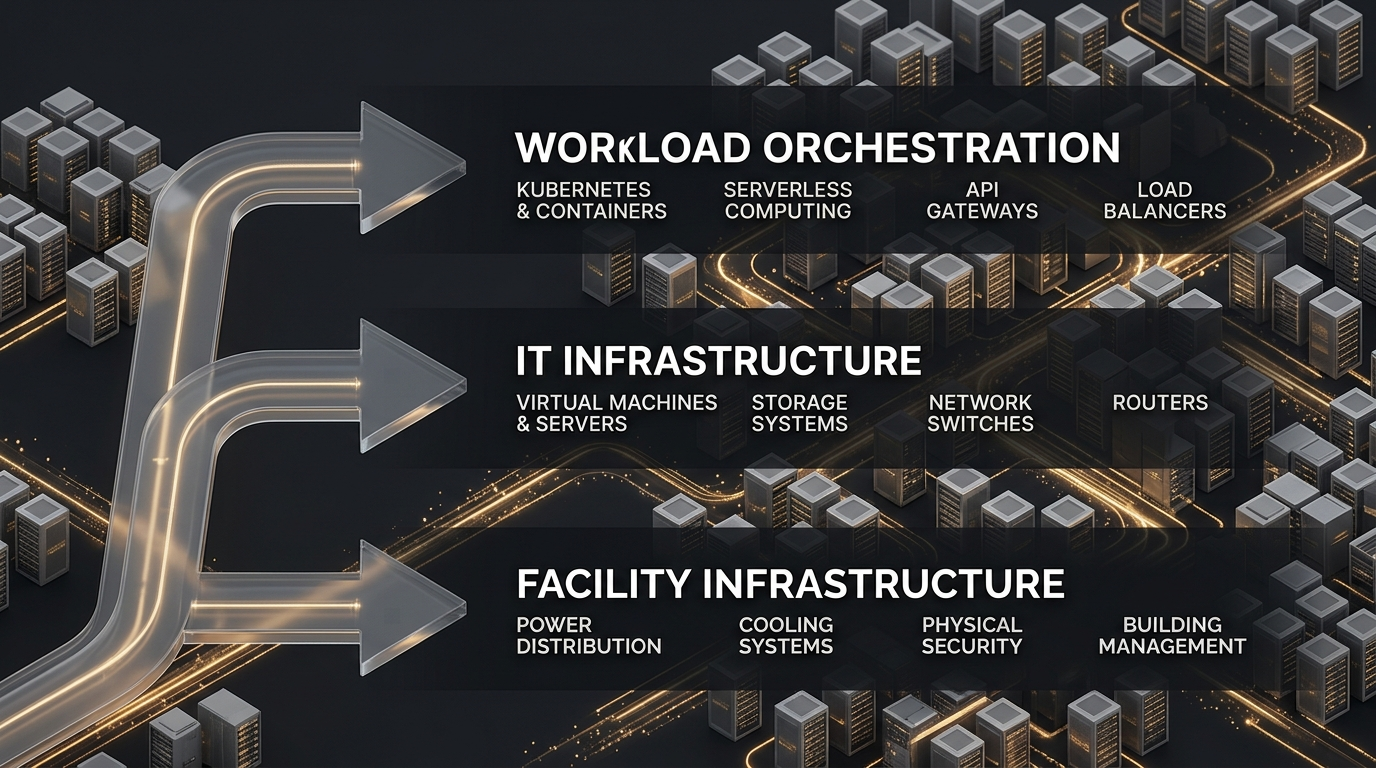
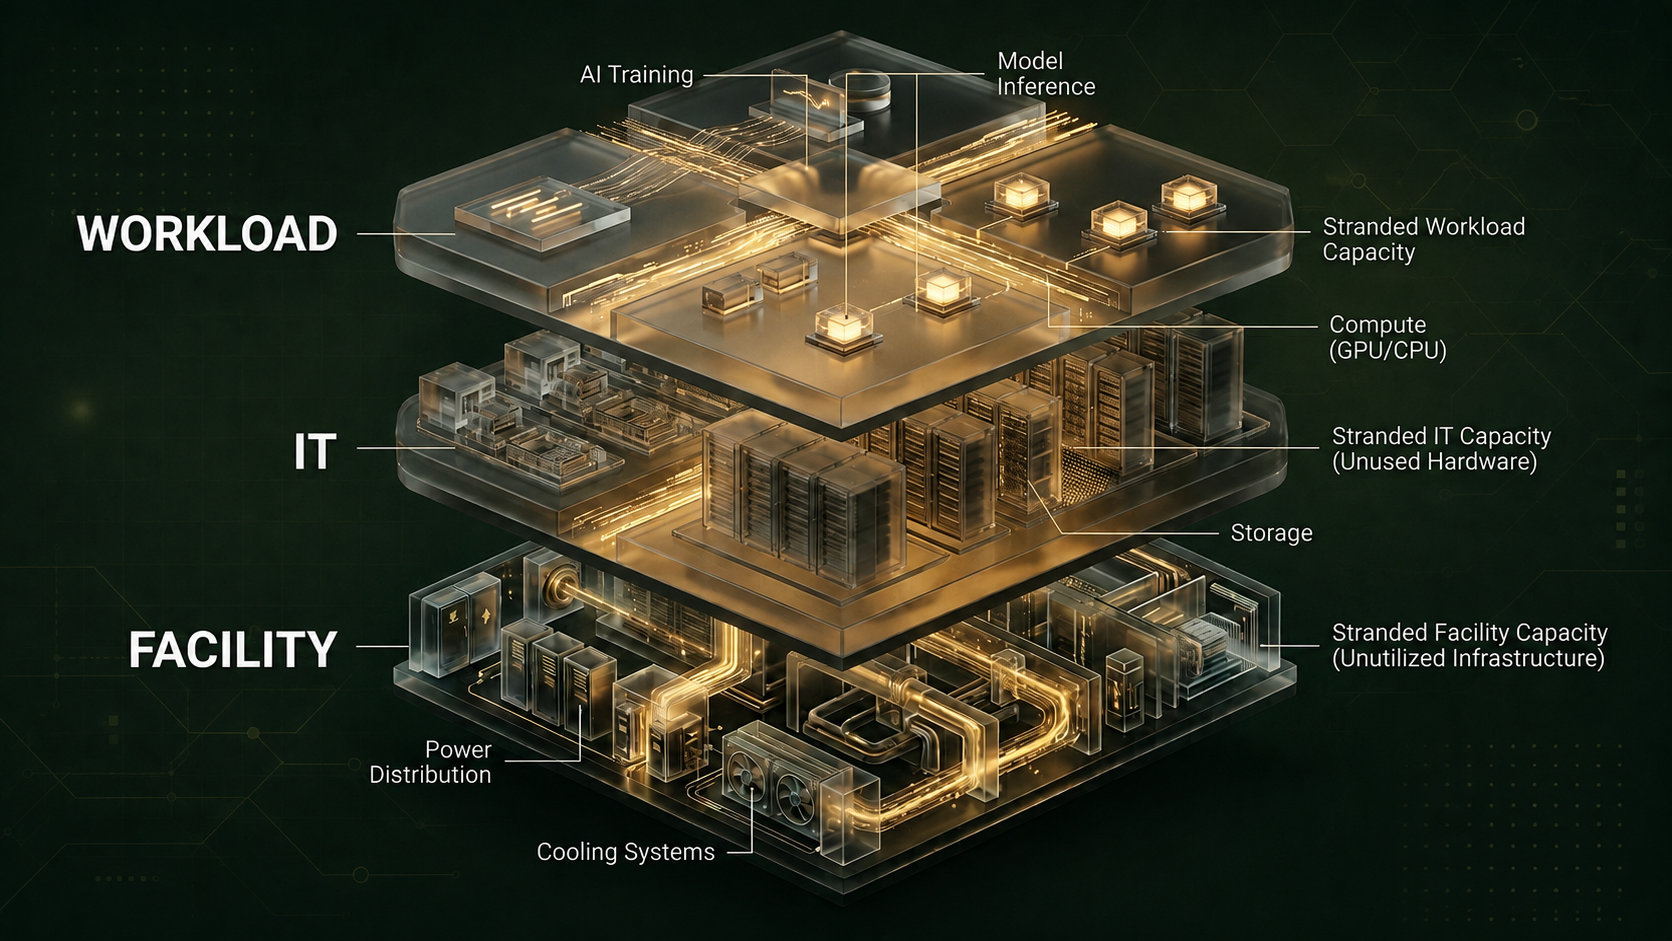
feat(taxonomy): add conceptual diagram image to taxonomy page and update hero image assets

diff --git a/app/taxonomy/page.tsx b/app/taxonomy/page.tsx
@@ -1,4 +1,5 @@
 import Link from "next/link";
+import Image from "next/image";
 import { Building2, Server, Workflow, ArrowRight } from "lucide-react";
 import { getTaxonomyLayers, taxonomyPath } from "./layers";
 
@@ -29,6 +30,22 @@ export default function TaxonomyPage() {
         <h1 className="mb-8 mt-0 text-3xl font-bold tracking-tight text-foreground sm:text-4xl md:text-5xl">
           Taxonomy — Las tres capas
         </h1>
+
+        <figure className="not-prose mb-10 overflow-hidden rounded-xl border border-border sm:mb-12">
+          <div className="relative aspect-[16/9] w-full bg-surface">
+            <Image
+              src="/images/hero-datacenter-v3.png"
+              alt="Ilustración conceptual de las tres capas de un data center"
+              fill
+              className="object-cover"
+              priority
+              sizes="(max-width: 768px) 100vw, 768px"
+            />
+          </div>
+          <figcaption className="border-t border-border bg-surface/50 px-4 py-2.5 text-center text-xs text-muted">
+            <strong className="font-semibold text-accent">Figura 2.</strong> Desglose taxonómico de recursos: Facility, IT y Workload.
+          </figcaption>
+        </figure>
 
         <p>
           La <em>stranded capacity</em> no es un fenómeno homogéneo: aparece en tres capas distintas del data center: <strong>Facility</strong>, <strong>IT</strong> y <strong>Workload</strong>. La taxonomía las separa porque cada una tiene su propia unidad de medida, sus propios responsables y su propia forma de desperdiciar capacidad ya pagada.

diff --git a/app/page.tsx b/app/page.tsx
@@ -20,7 +20,7 @@ export default function Home() {
         <figure className="not-prose mb-10 overflow-hidden rounded-xl border border-border sm:mb-12">
           <div className="relative aspect-[16/9] w-full bg-surface">
             <Image
-              src="/images/hero-datacenter-v16.png"
+              src="/images/hero-datacenter-v1.png"
               alt="Ilustración conceptual de las tres capas de un data center: Facility, IT y Workload, mostrando la capacidad varada entre ellas"
               fill
               className="object-cover"
@@ -28,8 +28,8 @@ export default function Home() {
               sizes="(max-width: 768px) 100vw, 768px"
             />
           </div>
-          <figcaption className="border-t border-border bg-surface/50 px-4 py-2.5 text-center text-[11px] uppercase tracking-widest text-muted">
-            Representación conceptual — Tres capas del data center
+          <figcaption className="border-t border-border bg-surface/50 px-4 py-2.5 text-center text-xs text-muted">
+            <strong className="font-semibold text-accent">Figura 1.</strong> Arquitectura de tres capas y focos de capacidad varada en data centers de IA.
           </figcaption>
         </figure>
 
